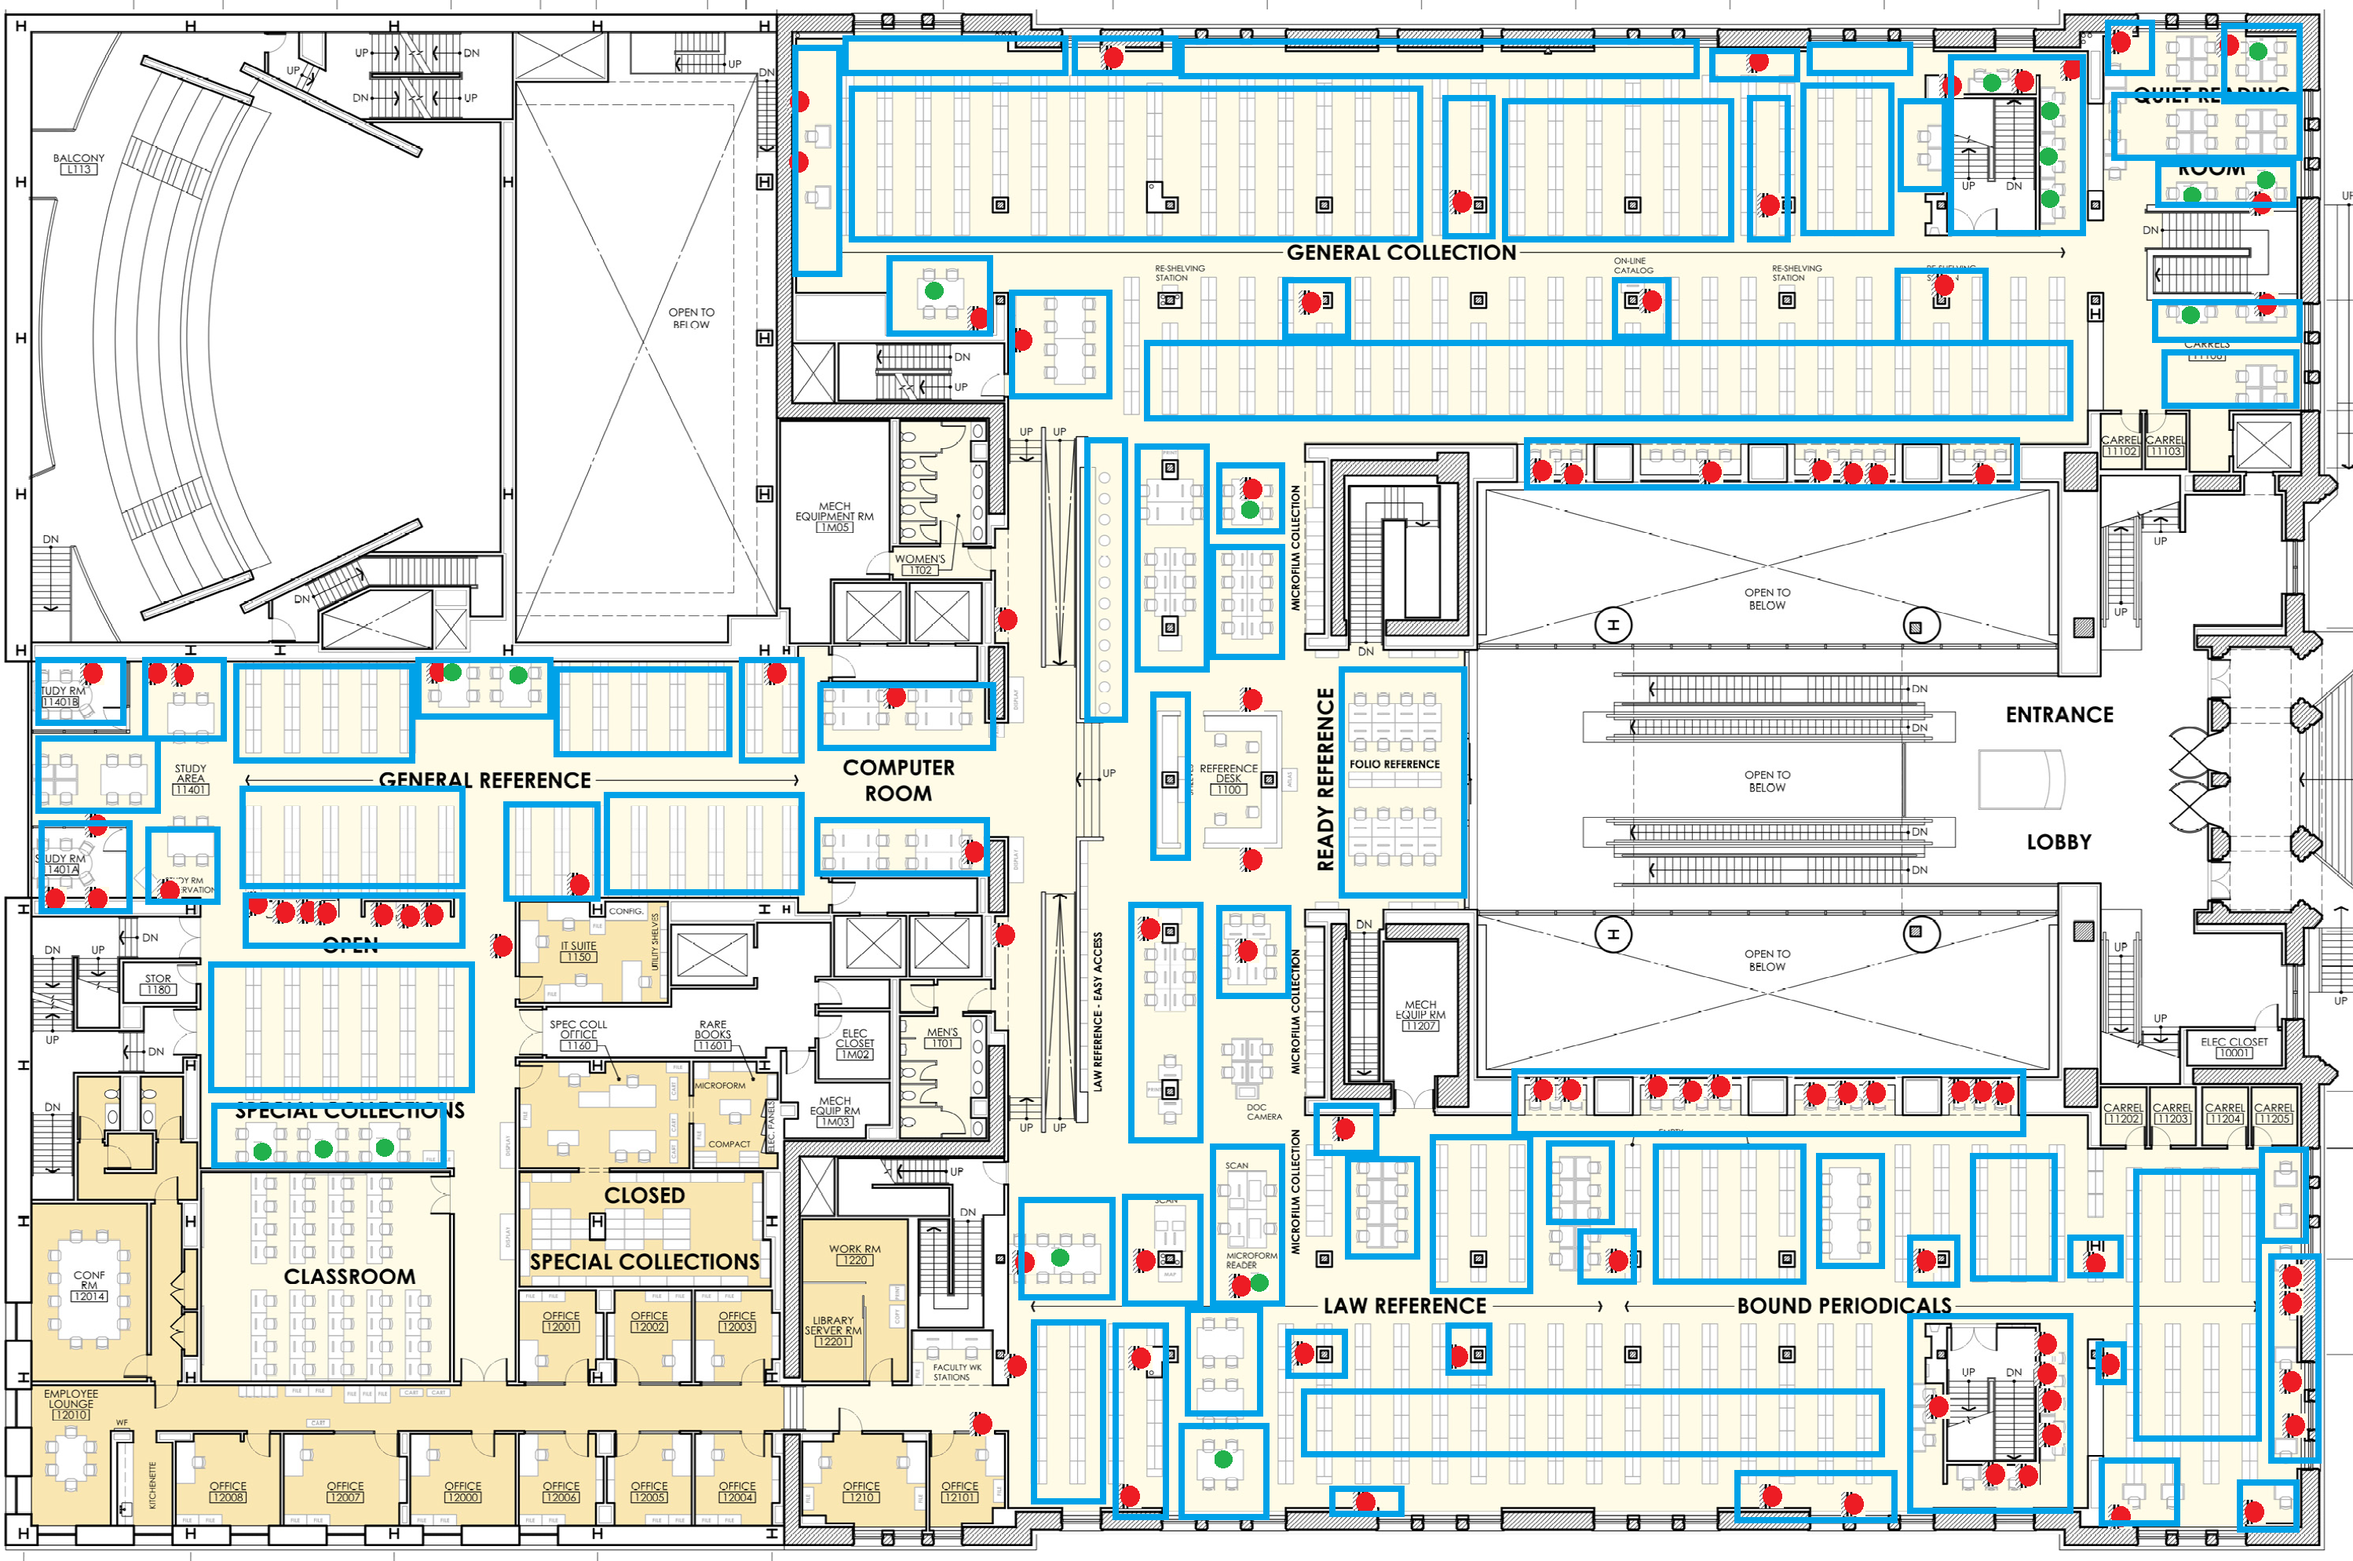
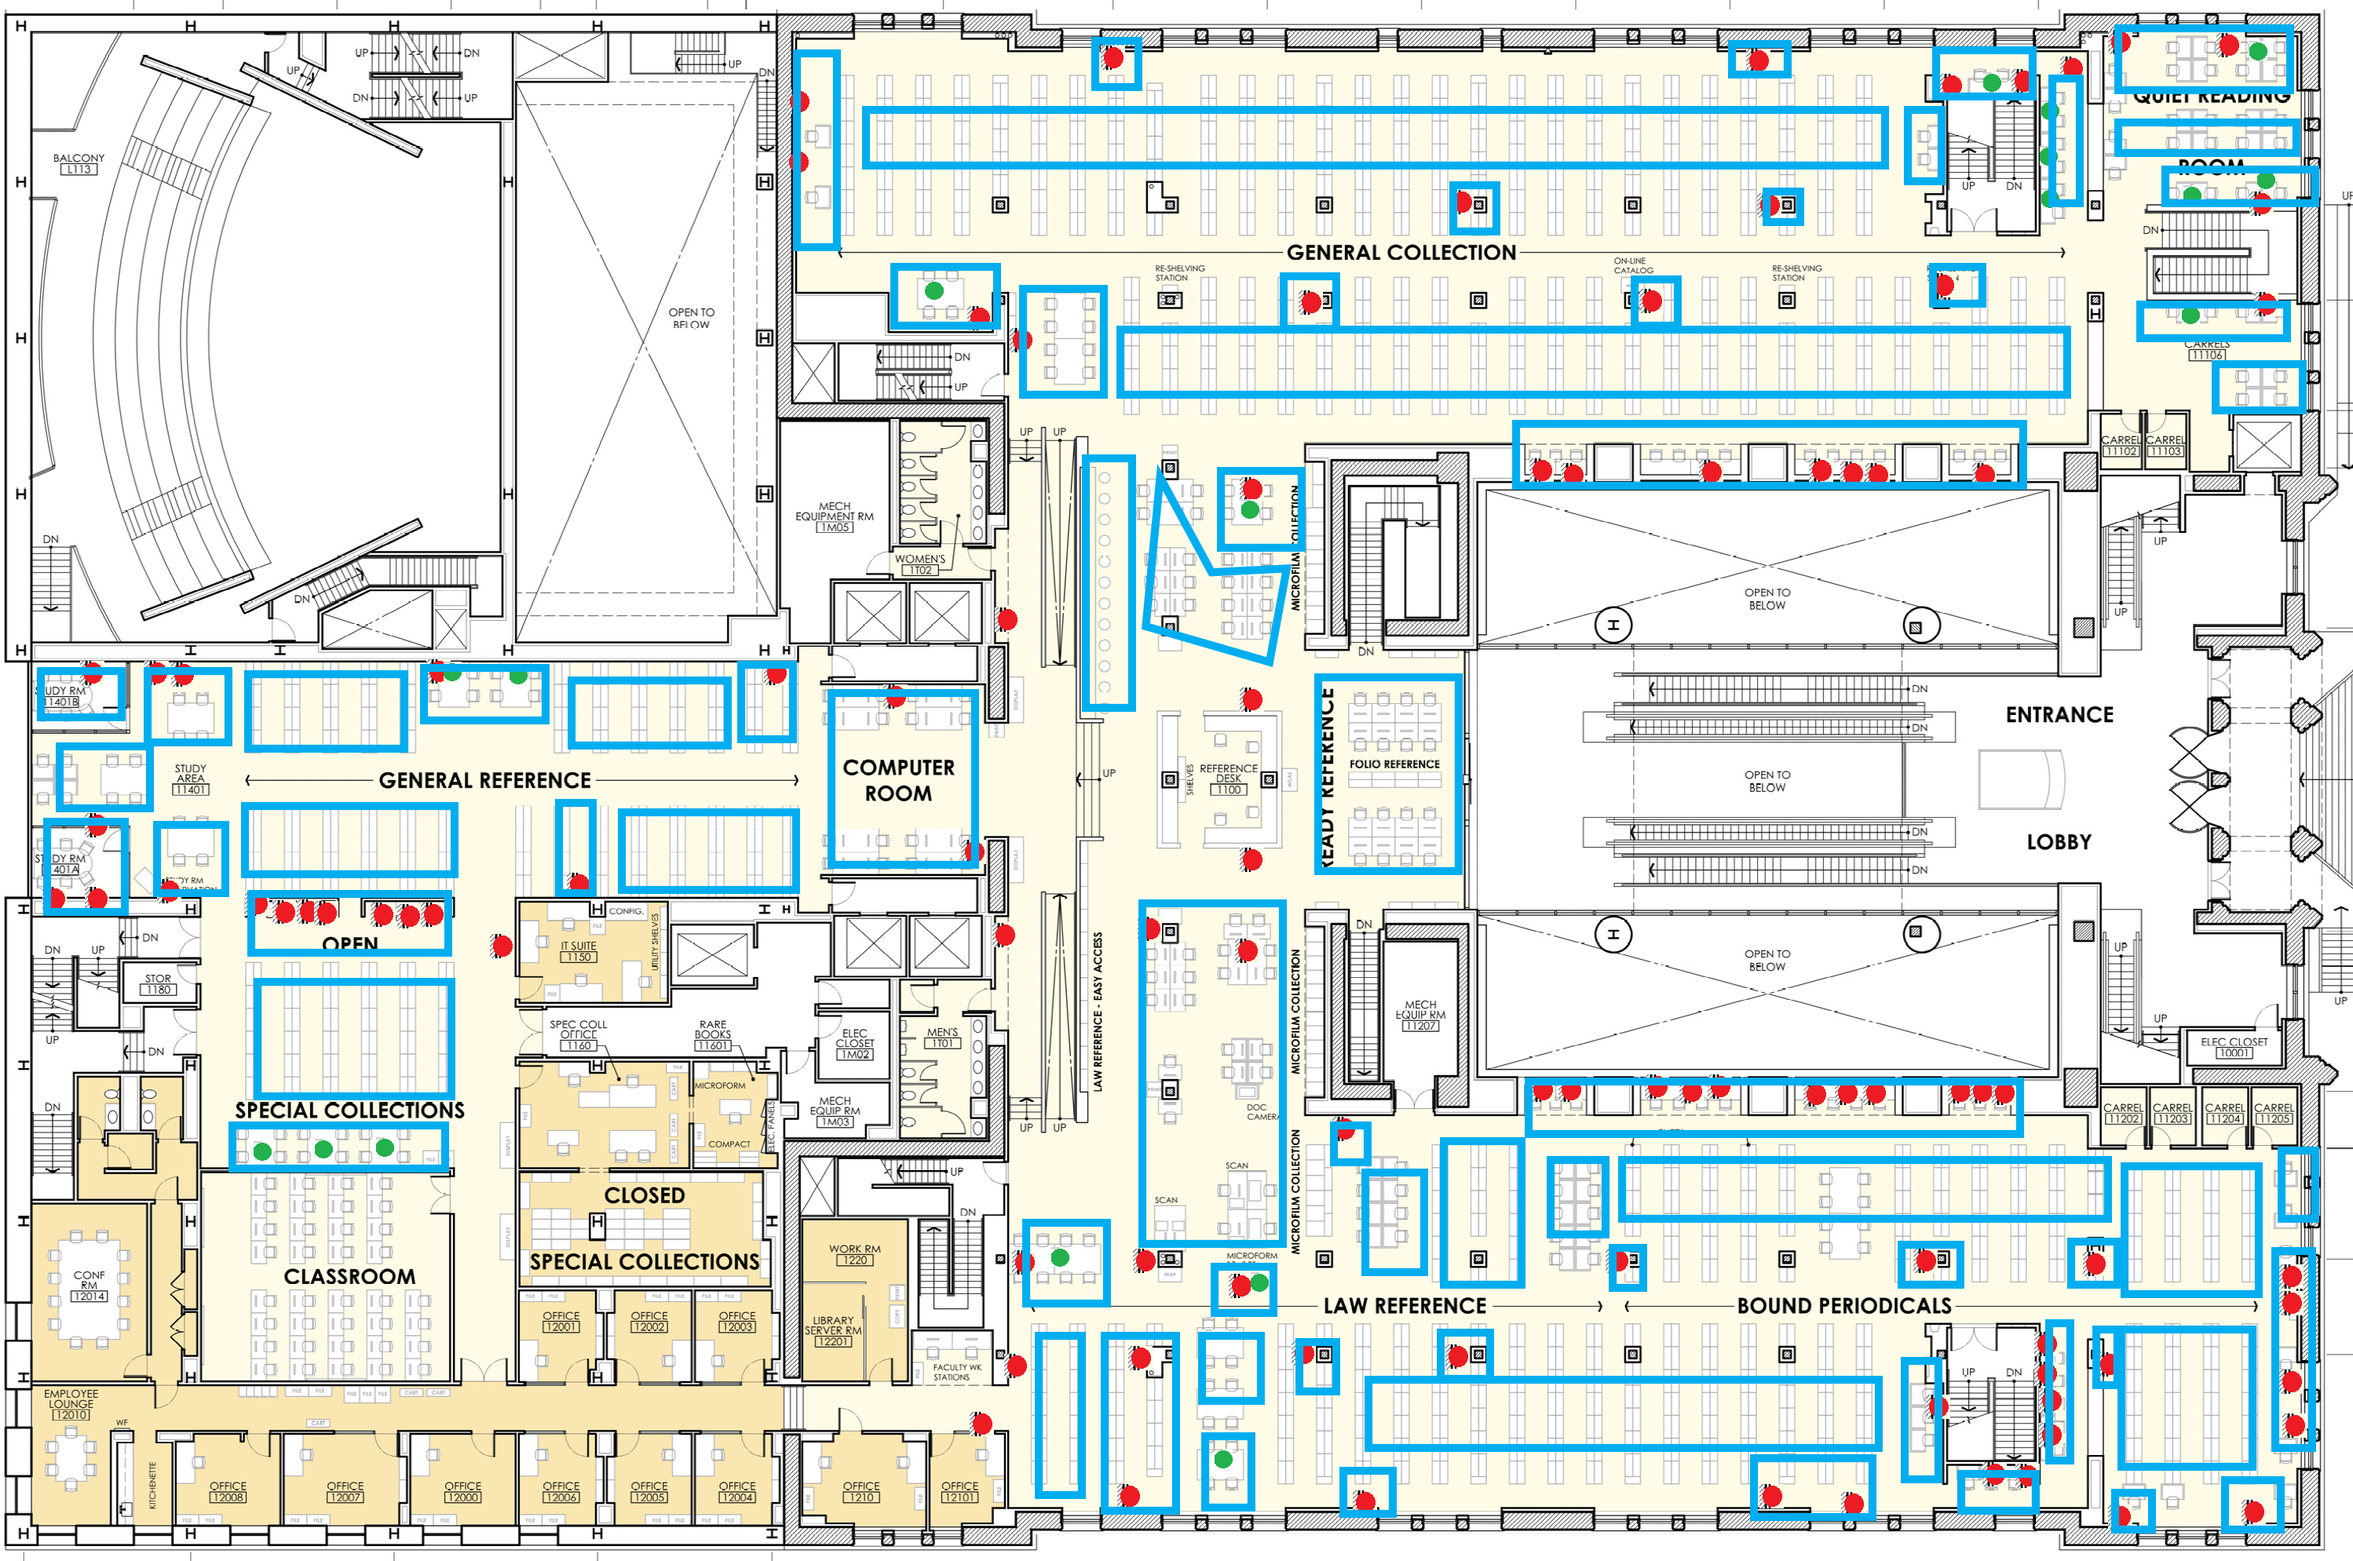
Updated image for upper floor & used the new boxes

Changed region(s): [[0.3413, 0.0, 0.993, 0.9975], [0.0, 0.4052, 0.4344, 0.7481]]

diff --git a/map.html b/map.html
@@ -8,55 +8,114 @@
 <img src="static/{{.Floor}}.png" usemap="#floor{{.Floor}}">
 <map name="floor{{.Floor}}">
 {{if eq .Floor "1"}}
-	<area target="" alt="" title="" href="/?area=L1" coords="450,312,81,95" shape="rect">
-	<area target="" alt="" title="" href="/?area=L2" coords="315,349,993,504" shape="rect">
-	<area target="" alt="" title="" href="/?area=L3" coords="1213,101,1398,294" shape="rect">
-	<area target="" alt="" title="" href="/?area=L4" coords="1550,57,1867,247" shape="rect">
-	<area target="" alt="" title="" href="/?area=L5" coords="882,1098,1525,1261" shape="rect">
-	<area target="" alt="" title="" href="/?area=L6" coords="1029,400,1433,512" shape="rect">
-	<area target="" alt="" title="" href="/?area=L7" coords="885,125,1053,291" shape="rect">
-	<area target="" alt="" title="" href="/?area=L8" coords="828,692,1390,782" shape="rect">
-	<area target="" alt="" title="" href="/?area=L9" coords="494,549,632,728" shape="rect">
-	<area target="" alt="" title="" href="/?area=L10" coords="589,134,705,294" shape="rect">
-	<area target="" alt="" title="" href="/?area=L11" coords="904,597,1444,657" shape="rect">
-	<area target="" alt="" title="" href="/?area=L12" coords="369,580,464,745" shape="rect">
-	<area target="" alt="" title="" href="/?area=L13" coords="477,186,567,297" shape="rect">
-	<area target="" alt="" title="" href="/?area=L14" coords="1067,177,1164,294" shape="rect">
-	<area target="" alt="" title="" href="/?area=L15" coords="1422,82,1496,231" shape="rect">
-	<area target="" alt="" title="" href="/?area=L16" coords="1501,358,1593,456" shape="rect">
-	<area target="" alt="" title="" href="/?area=L17" coords="1422,268,1612,331" shape="rect">
-	<area target="" alt="" title="" href="/?area=L18" coords="1786,389,1873,500" shape="rect">
-	<area target="" alt="" title="" href="/?area=L19" coords="1075,85,1189,156" shape="rect">
-	<area target="" alt="" title="" href="/?area=L20" coords="67,344,206,393" shape="rect">
-	<area target="" alt="" title="" href="/?area=L21" coords="244,375,298,540" shape="rect">
-	<area target="" alt="" title="" href="/?area=L22" coords="464,75,540,159" shape="rect">
-	<area target="" alt="" title="" href="/?area=L23" coords="27,83,62,257" shape="rect">
-	<area target="" alt="" title="" href="/?area=L24" coords="1498,474,1607,531" shape="rect">
-	<area target="" alt="" title="" href="/?area=L25" coords="1683,253,1762,318" shape="rect">
-	<area target="" alt="" title="" href="/?area=L26" coords="1506,612,1563,710" shape="rect">
-	<area target="" alt="" title="" href="/?area=L27" coords="820,129,860,235" shape="rect">
-	<area target="" alt="" title="" href="/?area=L28" coords="727,148,768,248" shape="rect">
-	<area target="" alt="" title="" href="/?area=L29" coords="1018,327,1080,379" shape="rect">
-	<area target="" alt="" title="" href="/?area=L30" coords="1216,328,1273,382" shape="rect">
-	<area target="" alt="" title="" href="/?area=L31" coords="673,524,779,565" shape="rect">
-	<area target="" alt="" title="" href="/?area=L32" coords="836,586,882,646" shape="rect">
-	<area target="" alt="" title="" href="/?area=L33" coords="912,82,942,109" shape="rect">
-	<area target="" alt="" title="" href="/?area=L34" coords="426,542,464,569" shape="rect">
-	<area target="" alt="" title="" href="/?area=L35" coords="534,740,594,767" shape="rect">
+	<area href="/?area=L1" coords="450,312,81,95" shape="rect">
+	<area href="/?area=L2" coords="315,349,993,504" shape="rect">
+	<area href="/?area=L3" coords="1213,101,1398,294" shape="rect">
+	<area href="/?area=L4" coords="1550,57,1867,247" shape="rect">
+	<area href="/?area=L5" coords="882,1098,1525,1261" shape="rect">
+	<area href="/?area=L6" coords="1029,400,1433,512" shape="rect">
+	<area href="/?area=L7" coords="885,125,1053,291" shape="rect">
+	<area href="/?area=L8" coords="828,692,1390,782" shape="rect">
+	<area href="/?area=L9" coords="494,549,632,728" shape="rect">
+	<area href="/?area=L10" coords="589,134,705,294" shape="rect">
+	<area href="/?area=L11" coords="904,597,1444,657" shape="rect">
+	<area href="/?area=L12" coords="369,580,464,745" shape="rect">
+	<area href="/?area=L13" coords="477,186,567,297" shape="rect">
+	<area href="/?area=L14" coords="1067,177,1164,294" shape="rect">
+	<area href="/?area=L15" coords="1422,82,1496,231" shape="rect">
+	<area href="/?area=L16" coords="1501,358,1593,456" shape="rect">
+	<area href="/?area=L17" coords="1422,268,1612,331" shape="rect">
+	<area href="/?area=L18" coords="1786,389,1873,500" shape="rect">
+	<area href="/?area=L19" coords="1075,85,1189,156" shape="rect">
+	<area href="/?area=L20" coords="67,344,206,393" shape="rect">
+	<area href="/?area=L21" coords="244,375,298,540" shape="rect">
+	<area href="/?area=L22" coords="464,75,540,159" shape="rect">
+	<area href="/?area=L23" coords="27,83,62,257" shape="rect">
+	<area href="/?area=L24" coords="1498,474,1607,531" shape="rect">
+	<area href="/?area=L25" coords="1683,253,1762,318" shape="rect">
+	<area href="/?area=L26" coords="1506,612,1563,710" shape="rect">
+	<area href="/?area=L27" coords="820,129,860,235" shape="rect">
+	<area href="/?area=L28" coords="727,148,768,248" shape="rect">
+	<area href="/?area=L29" coords="1018,327,1080,379" shape="rect">
+	<area href="/?area=L30" coords="1216,328,1273,382" shape="rect">
+	<area href="/?area=L31" coords="673,524,779,565" shape="rect">
+	<area href="/?area=L32" coords="836,586,882,646" shape="rect">
+	<area href="/?area=L33" coords="912,82,942,109" shape="rect">
+	<area href="/?area=L34" coords="426,542,464,569" shape="rect">
+	<area href="/?area=L35" coords="534,740,594,767" shape="rect">
 {{else if eq .Floor "2"}}
-	<area target="" alt="" title="" href="/?area=U1" coords="1094,120,1809,300" shape="rect">
-	<area target="" alt="" title="" href="/?area=U2" coords="1923,133,2205,297" shape="rect">
-	<area target="" alt="" title="" href="/?area=U3" coords="2491,76,2660,291" shape="rect">
-	<area target="" alt="" title="" href="/?area=U4" coords="1464,435,2630,527" shape="rect">
-	<area target="" alt="" title="" href="/?area=U5" coords="302,843,521,970" shape="rect">
-	<area target="" alt="" title="" href="/?area=U6" coords="315,1009,584,1126" shape="rect">
-	<area target="" alt="" title="" href="/?area=U7" coords="774,1017,1014,1135" shape="rect">
-	<area target="" alt="" title="" href="/?area=U8" coords="1713,857,1864,1138" shape="rect">
-	<area target="" alt="" title="" href="/?area=U9" coords="273,1228,601,1388" shape="rect">
-	<area target="" alt="" title="" href="/?area=U10" coords="2112,1465,2298,1633" shape="rect">
-	<area target="" alt="" title="" href="/?area=U11" coords="2727,1495,2879,1827" shape="rect">
-	<area target="" alt="" title="" href="/?area=U12" coords="1666,1773,2390,1849" shape="rect">
-	<area target="" alt="" title="" href="/?area=U13" coords="2437,1674,2634,1922" shape="rect">
-	<area target="" alt="" title="" href="/?area=U14" coords="2740,88,2689,34" shape="rect">
+	<area href="/?area=U1" coords="1389,58,1455,109" shape="rect">
+	<area href="/?area=U2" coords="1105,146,2397,212" shape="rect">
+	<area href="/?area=U3" coords="2209,61,2278,95" shape="rect">
+	<area href="/?area=U4" coords="2432,146,2477,236" shape="rect">
+	<area href="/?area=U5" coords="2466,66,2585,124" shape="rect">
+	<area href="/?area=U6" coords="2612,111,2654,265" shape="rect">
+	<area href="/?area=U7" coords="2707,42,2922,111" shape="rect">
+	<area href="/?area=U8" coords="2702,164,2927,193" shape="rect">
+	<area href="/?area=U9" coords="2760,225,2956,260" shape="rect">
+	<area href="/?area=U10" coords="2726,387,2922,437" shape="rect">
+	<area href="/?area=U11" coords="2254,252,2289,273" shape="rect">
+	<area href="/?area=U12" coords="1849,241,1910,302" shape="rect">
+	<area href="/?area=U13" coords="2829,474,2932,527" shape="rect">
+	<area href="/?area=U14" coords="2464,350,2514,381" shape="rect">
+	<area href="/?area=U15" coords="2088,355,2135,411" shape="rect">
+	<area href="/?area=U16" coords="1637,355,1696,418" shape="rect">
+	<area href="/?area=U17" coords="1021,74,1068,320" shape="rect">
+	<area href="/?area=U18" coords="" shape="rect">
+	<area href="/?area=U19" coords="1145,342,1269,408" shape="rect">
+	<area href="/?area=U20" coords="1304,376,1407,503" shape="rect">
+	<area href="/?area=U21" coords="1439,429,2636,498" shape="rect">
+	<area href="/?area=U22" coords="1939,543,2575,609" shape="rect">
+	<area href="/?area=U23" coords="1563,612,1656,689" shape="rect">
+	<area href="/?area=U24" coords="1481,604,1460,792,1608,834,1637,739,1542,731" shape="poly">
+	<area href="/?area=U25" coords="1389,580,1444,903" shape="rect">
+	<area href="/?area=U26" coords="1685,874,1860,1107" shape="rect">
+	<area href="/?area=U27" coords="1071,885,1240,1104" shape="rect">
+	<area href="/?area=U28" coords="939,853,1010,943" shape="rect">
+	<area href="/?area=U29" coords="729,879,923,953" shape="rect">
+	<area href="/?area=U30" coords="539,855,698,922" shape="rect">
+	<area href="/?area=U31" coords="801,1038,1010,1128" shape="rect">
+	<area href="/?area=U32" coords="719,1028,751,1134" shape="rect">
+	<area href="/?area=U33" coords="327,863,515,959" shape="rect">
+	<area href="/?area=U34" coords="314,1033,581,1110" shape="rect">
+	<area href="/?area=U35" coords="197,853,287,938" shape="rect">
+	<area href="/?area=U36" coords="57,866,152,914" shape="rect">
+	<area href="/?area=U37" coords="70,953,184,1022" shape="rect">
+	<area href="/?area=U38" coords="60,1051,165,1165" shape="rect">
+	<area href="/?area=U39" coords="208,1059,285,1139" shape="rect">
+	<area href="/?area=U40" coords="327,1152,568,1213" shape="rect">
+	<area href="/?area=U41" coords="335,1258,568,1393" shape="rect">
+	<area href="/?area=U42" coords="303,1435,565,1488" shape="rect">
+	<area href="/?area=U43" coords="1460,1157,1630,1584" shape="rect">
+	<area href="/?area=U44" coords="1309,1563,1405,1663" shape="rect">
+	<area href="/?area=U45" coords="1325,1708,1378,1910" shape="rect">
+	<area href="/?area=U46" coords="1415,1711,1502,1920" shape="rect">
+	<area href="/?area=U47" coords="1555,1616,1624,1671" shape="rect">
+	<area href="/?area=U48" coords="1532,1706,1608,1782" shape="rect">
+	<area href="/?area=U49" coords="1540,1838,1598,1931" shape="rect">
+	<area href="/?area=U50" coords="1701,1446,1741,1488" shape="rect">
+	<area href="/?area=U51" coords="1656,1719,1701,1780" shape="rect">
+	<area href="/?area=U52" coords="1720,1886,1775,1925" shape="rect">
+	<area href="/?area=U53" coords="1743,1507,1812,1621" shape="rect">
+	<area href="/?area=U54" coords="1839,1462,1939,1637" shape="rect">
+	<area href="/?area=U55" coords="1833,1703,1905,1756" shape="rect">
+	<area href="/?area=U56" coords="1749,1767,2395,1849" shape="rect">
+	<area href="/?area=U57" coords="1976,1483,2043,1576" shape="rect">
+	<area href="/?area=U58" coords="2051,1592,2093,1645" shape="rect">
+	<area href="/?area=U59" coords="1947,1375,2561,1438" shape="rect">
+	<area href="/?area=U60" coords="2074,1483,2681,1560" shape="rect">
+	<area href="/?area=U61" coords="2238,1872,2387,1928" shape="rect">
+	<area href="/?area=U62" coords="2424,1594,2501,1639" shape="rect">
+	<area href="/?area=U63" coords="2432,1735,2474,1888" shape="rect">
+	<area href="/?area=U64" coords="2501,1883,2596,1925" shape="rect">
+	<area href="/?area=U65" coords="2612,1692,2633,1862" shape="rect">
+	<area href="/?area=U66" coords="2644,1589,2704,1642" shape="rect">
+	<area href="/?area=U67" coords="2678,1700,2699,1767" shape="rect">
+	<area href="/?area=U68" coords="2694,1907,2744,1955" shape="rect">
+	<area href="/?area=U69" coords="2839,1891,2908,1955" shape="rect">
+	<area href="/?area=U70" coords="2712,1708,2869,1862" shape="rect">
+	<area href="/?area=U71" coords="2712,1496,2879,1653" shape="rect">
+	<area href="/?area=U72" coords="2900,1594,2948,1838" shape="rect">
+	<area href="/?area=U73" coords="2906,1473,2951,1563" shape="rect">
 {{end}}
 </map>
